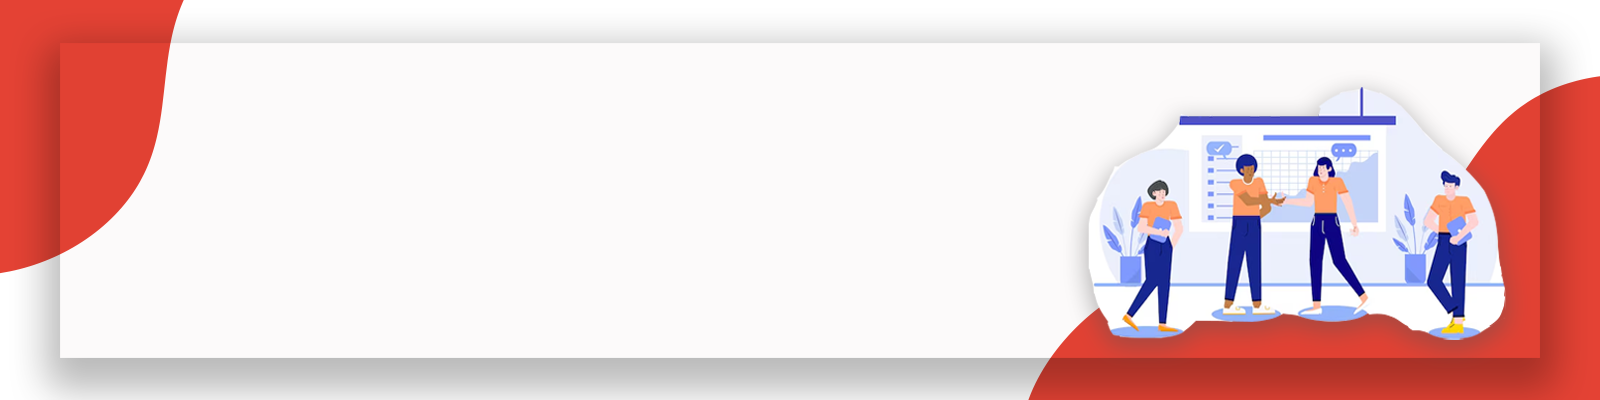
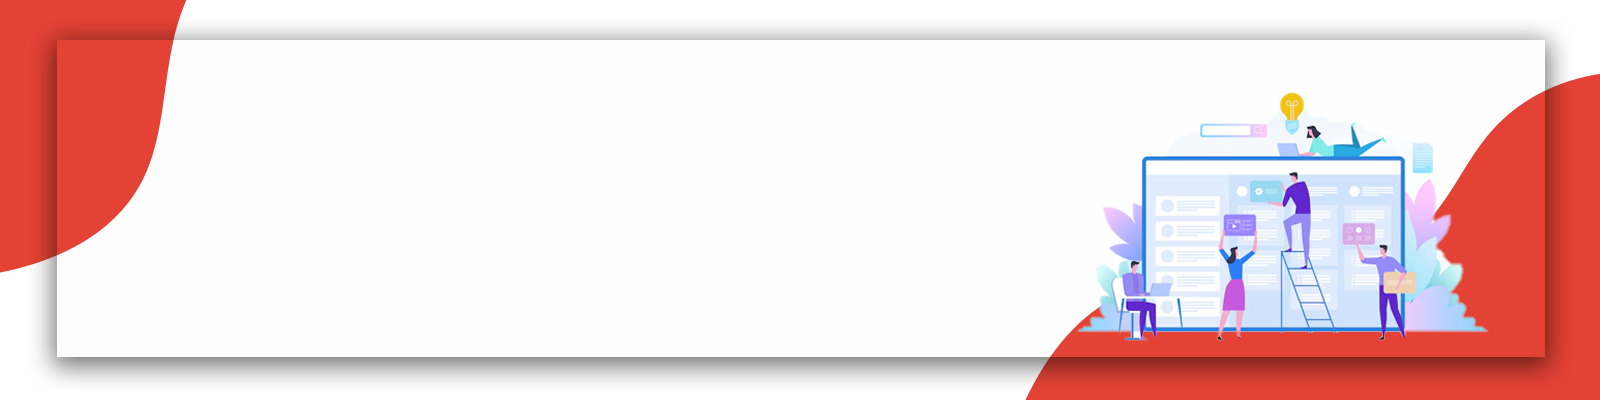
updated hero section

Changed region(s): [[0.0, 0.09, 1.0, 0.99]]

diff --git a/src/pages/Gallery.tsx b/src/pages/Gallery.tsx
@@ -34,82 +34,82 @@ const Gallery: React.FC = () => {
       <HeroSection
         title="Gallery"
         subtitle="Explore moments captured from our events, workshops, and community activities."
-        backgroundImage="/gallery_hero.svg"
+        backgroundImage="/Gallery.png"
       />
 
       {/* Infinite Scrolling Gallery */}
-      <section className="py-16 px-4 bg-gray-50 dark:bg-gray-900 overflow-hidden">
-        <div className="max-w-7xl mx-auto">
-          <motion.div
-            initial={{ y: 50, opacity: 0 }}
-            whileInView={{ y: 0, opacity: 1 }}
-            transition={{ duration: 0.8 }}
-            viewport={{ once: true }}
-            className="text-center mb-12"
+<section className="py-12 px-4 bg-gray-50 dark:bg-gray-900 overflow-hidden">
+  <div className="max-w-7xl mx-auto">
+    {/* Heading */}
+    <motion.div
+      initial={{ y: 50, opacity: 0 }}
+      whileInView={{ y: 0, opacity: 1 }}
+      transition={{ duration: 0.8 }}
+      viewport={{ once: true }}
+      className="text-center mb-10"
+    >
+      <h2 className="font-heading text-2xl md:text-4xl font-bold text-gray-900 dark:text-white mb-4">
+        Event Highlights
+      </h2>
+      <p className="font-body text-base md:text-lg text-gray-600 dark:text-gray-400 max-w-2xl mx-auto">
+        A visual journey through our community events and activities.
+      </p>
+    </motion.div>
+
+    {/* Row 1 - Left to Right */}
+    <div className="mb-6 overflow-hidden">
+      <motion.div
+        animate={{ x: ["0%", "-50%"] }}
+        transition={{
+          duration: 30,
+          repeat: Infinity,
+          ease: "linear",
+        }}
+        className="flex space-x-4 md:space-x-6"
+      >
+        {scrollingImages.map((image, index) => (
+          <div
+            key={`row1-${index}`}
+            className="flex-shrink-0 w-48 h-32 sm:w-60 sm:h-40 md:w-72 md:h-52 lg:w-80 lg:h-60 rounded-lg overflow-hidden shadow-lg"
           >
-            <h2 className="font-heading text-3xl md:text-4xl font-bold text-gray-900 dark:text-white mb-6">
-              Event Highlights
-            </h2>
-            <p className="font-body text-xl text-gray-600 dark:text-gray-400 max-w-3xl mx-auto">
-              A visual journey through our community events and activities.
-            </p>
-          </motion.div>
-
-          {/* Row 1 - Left to Right */}
-          <div className="mb-8 overflow-hidden">
-            <motion.div
-              animate={{ x: ['0%', '-50%'] }}
-              transition={{ 
-                duration: 30, 
-                repeat: Infinity, 
-                ease: 'linear' 
-              }}
-              className="flex space-x-6"
-            >
-              {scrollingImages.map((image, index) => (
-                <div
-                  key={`row1-${index}`}
-                  className="flex-shrink-0 w-80 h-60 rounded-lg overflow-hidden shadow-lg"
-                >
-                  <img
-                    src={image.url}
-                    alt={image.alt}
-                    className="w-full h-full object-cover hover:scale-105 transition-transform duration-300"
-                  />
-                </div>
-              ))}
-            </motion.div>
+            <img
+              src={image.url}
+              alt={image.alt}
+              className="w-full h-full object-cover hover:scale-105 transition-transform duration-300"
+            />
           </div>
+        ))}
+      </motion.div>
+    </div>
 
-          {/* Row 2 - Right to Left */}
-          <div className="mb-8 overflow-hidden">
-            <motion.div
-              animate={{ x: ['-50%', '0%'] }}
-              transition={{ 
-                duration: 35, 
-                repeat: Infinity, 
-                ease: 'linear' 
-              }}
-              className="flex space-x-6"
-            >
-              {scrollingImages.map((image, index) => (
-                <div
-                  key={`row2-${index}`}
-                  className="flex-shrink-0 w-80 h-60 rounded-lg overflow-hidden shadow-lg"
-                >
-                  <img
-                    src={image.url}
-                    alt={image.alt}
-                    className="w-full h-full object-cover hover:scale-105 transition-transform duration-300"
-                  />
-                </div>
-              ))}
-            </motion.div>
+    {/* Row 2 - Right to Left */}
+    <div className="mb-6 overflow-hidden">
+      <motion.div
+        animate={{ x: ["-50%", "0%"] }}
+        transition={{
+          duration: 35,
+          repeat: Infinity,
+          ease: "linear",
+        }}
+        className="flex space-x-4 md:space-x-6"
+      >
+        {scrollingImages.map((image, index) => (
+          <div
+            key={`row2-${index}`}
+            className="flex-shrink-0 w-48 h-32 sm:w-60 sm:h-40 md:w-72 md:h-52 lg:w-80 lg:h-60 rounded-lg overflow-hidden shadow-lg"
+          >
+            <img
+              src={image.url}
+              alt={image.alt}
+              className="w-full h-full object-cover hover:scale-105 transition-transform duration-300"
+            />
           </div>
+        ))}
+      </motion.div>
+    </div>
+  </div>
+</section>
 
-          
-        </div>
-      </section>
     </div>
   );
 };

diff --git a/src/pages/Team.tsx b/src/pages/Team.tsx
@@ -19,7 +19,7 @@ const Team: React.FC = () => {
       <HeroSection
         title="Team"
         subtitle="Meet the amazing individuals who make GDG VBIT a thriving community of innovation and learning."
-        backgroundImage="/team_hero.svg"
+        backgroundImage="/team.png"
       />
 
       {/* Page Heading */}
